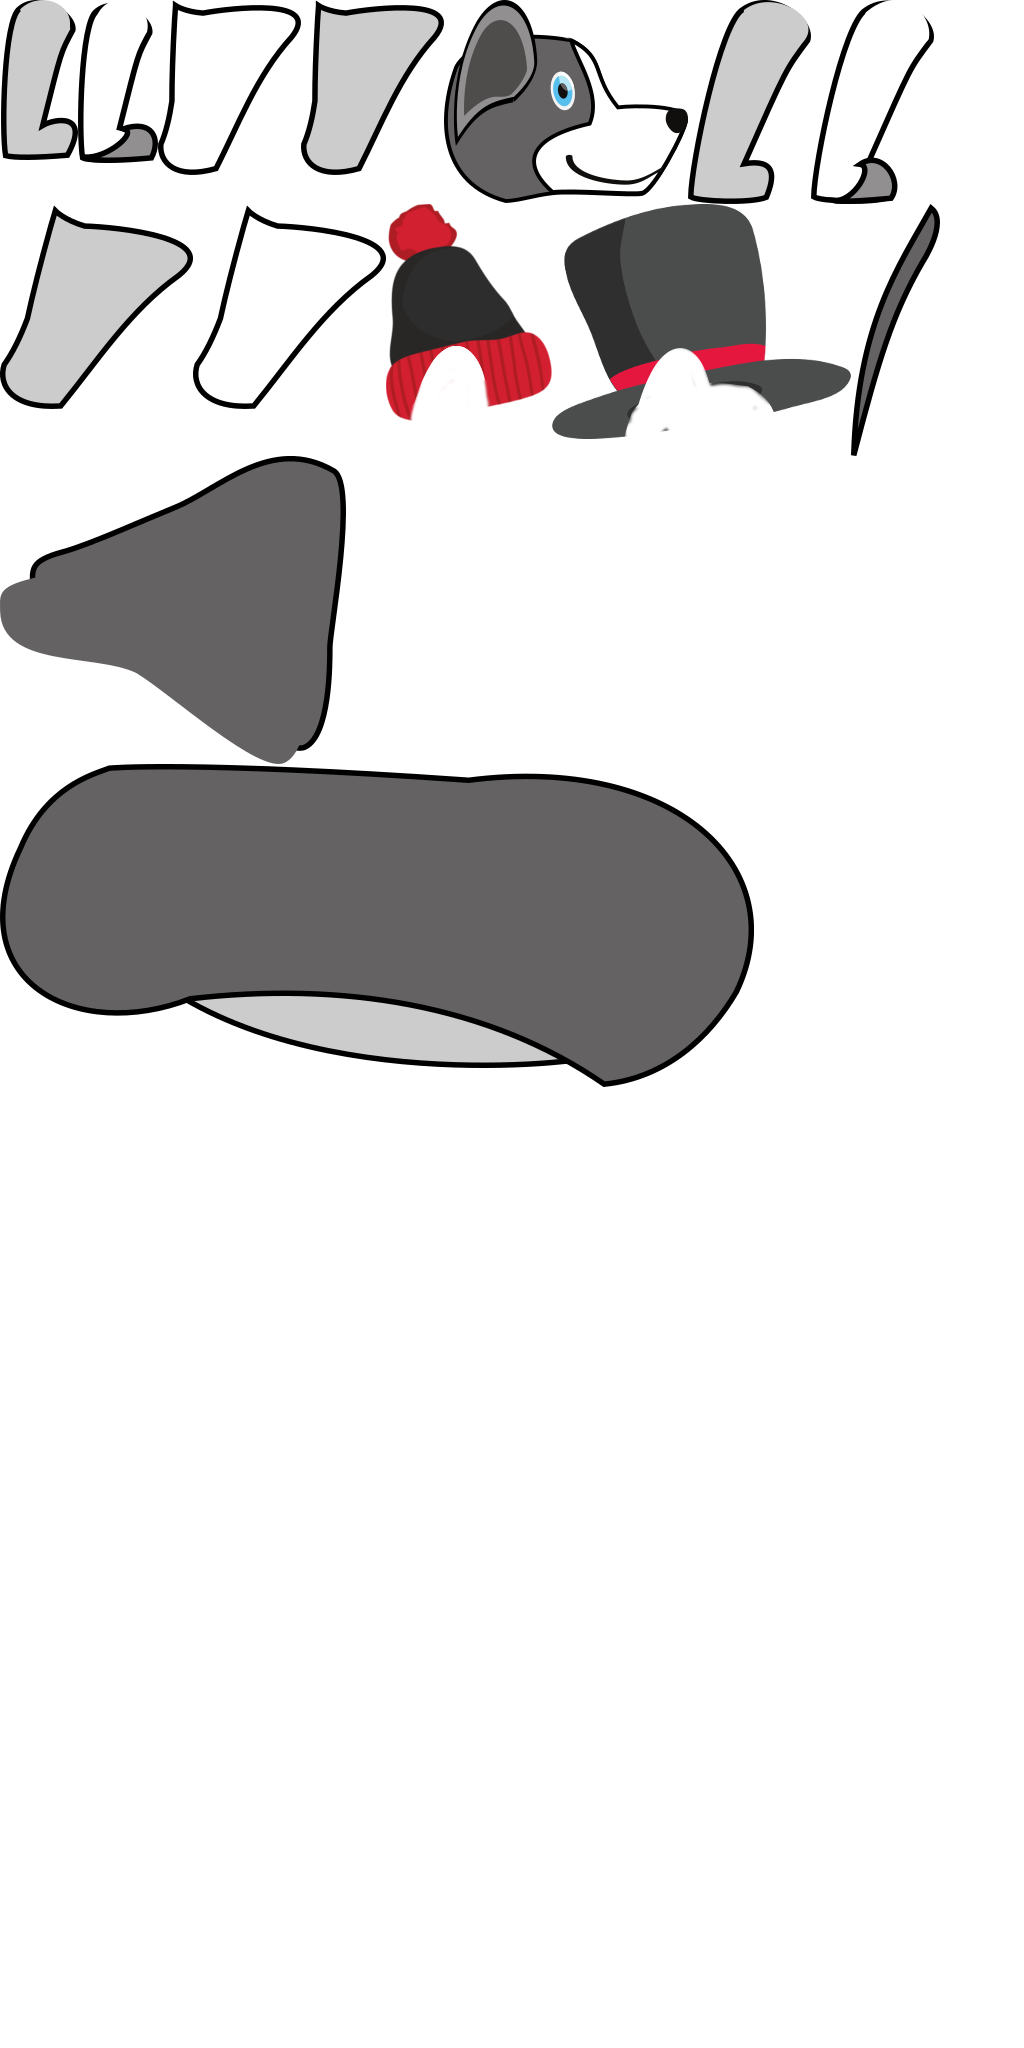
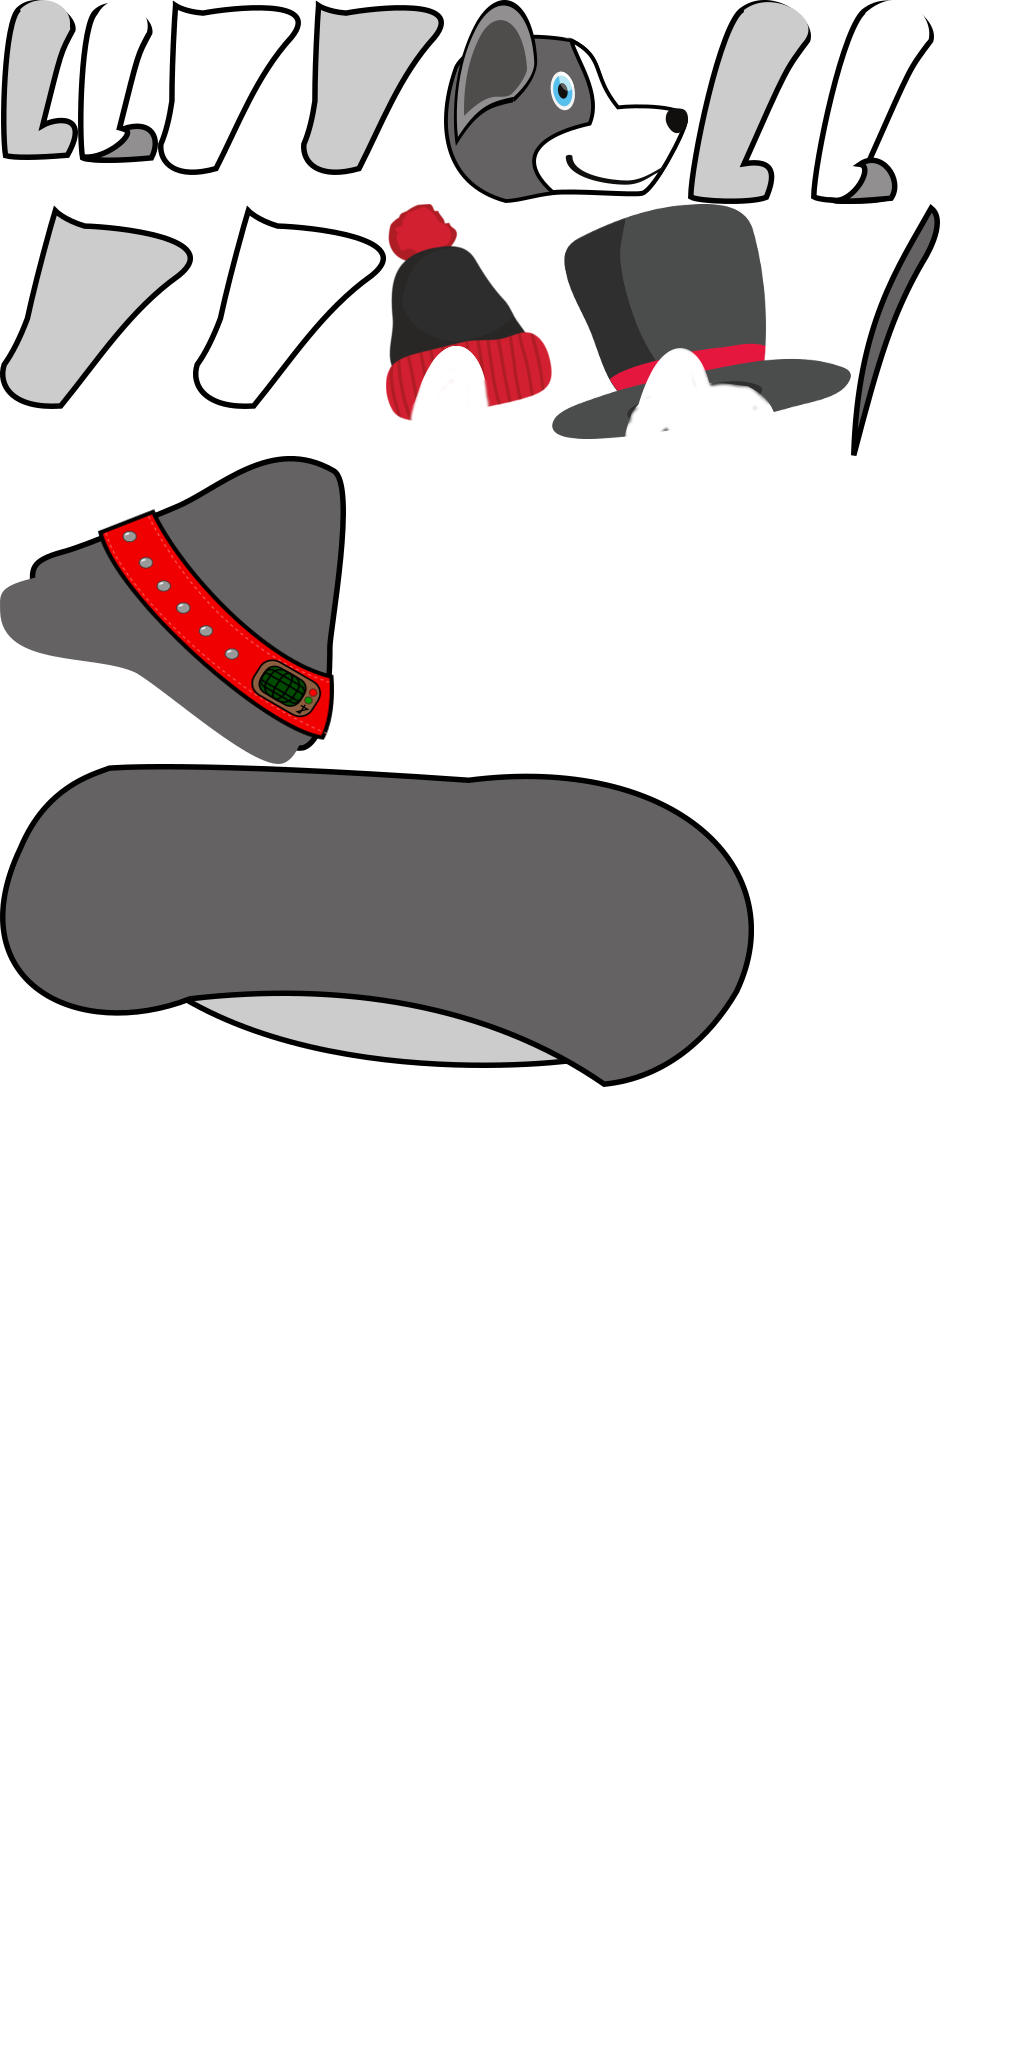
Started tidying up for version 0.2
Lowered fall noise. Modified energy numbers. Reseted story beginning.

Started adding support for showing who is speaking.

Changed region(s): [[0.0938, 0.25, 0.3438, 0.375]]

diff --git a/js/gui/guiElement.js b/js/gui/guiElement.js
@@ -121,8 +121,15 @@ class DialogGuiElement extends GuiElement
         {
             this.options = [{text:"continue"}];
         }
+        var thumbnailPanel;
         _slickUI.add(this.panel = new SlickUI.Element.Panel(50, 150, 700, 150));
-        this.panel.add(this.text = new SlickUI.Element.Text(0,10, ""));
+        this.panel.add(thumbnailPanel = new SlickUI.Element.Panel(10, 10, 120, 120));
+        this.panel.add(this.text = new SlickUI.Element.Text(150,10, ""));
+        
+        if (true || this.options.characterFace != undefined)
+        {
+            thumbnailPanel.add(new SlickUI.Element.DisplayObject(5, 5, game.make.sprite(0, 0, 'collarThumbnail')));
+        }
         
         super.create(_slickUI, _game, this.panel);
         ServiceLocator.inputManager.leftButton.onDown.add(this.finishWritingText, this);

diff --git a/js/player.js b/js/player.js
@@ -7,8 +7,8 @@ class DogPlayer extends GameObject
         this.character;
         this.maxHealth = 40;
         this.health = this.maxHealth;
-        this.maxEnergy = 40;
-        this.energy = 30;
+        this.maxEnergy = 20;
+        this.energy = 0;
         this.healthBar = new HealthBar();
         this.energyBar = new EnergyBar();
         this.jumpAcceleration = new Phaser.Point(0, 0);
@@ -91,6 +91,7 @@ class DogPlayer extends GameObject
         this.attackAudio = this.game.add.audio('playerAttackAudio');
         this.jumpAudio = this.game.add.audio('playerJumpAudio');
         this.landAudio = this.game.add.audio('playerLandAudio');
+        this.landAudio.volume = 0.25;
         this.stepAudio = this.game.add.audio('playerStepAudio');
         this.stepAudio.volume = 0.25;
     }

diff --git a/js/cards.js b/js/cards.js
@@ -201,7 +201,7 @@ class SmEnergyCard extends Card
     
     apply(_arguments)
     {
-        _arguments.player.addEnergy(2);
+        _arguments.player.addEnergy(5);
     }
     
     getEnergyIncrease()
@@ -220,7 +220,7 @@ class MedEnergyCard extends Card
     
     apply(_arguments)
     {
-        _arguments.player.addEnergy(5);
+        _arguments.player.addEnergy(10);
     }
     
     getEnergyIncrease()
@@ -239,7 +239,7 @@ class BigEnergyCard extends Card
     
     apply(_arguments)
     {
-        _arguments.player.addEnergy(10);
+        _arguments.player.addEnergy(15);
     }
     
     getEnergyIncrease()

diff --git a/js/cardPieceUI.js b/js/cardPieceUI.js
@@ -31,9 +31,13 @@ class CardPieceUI
     
     setNumberOfPieces(_number)
     {
-        if (this.baseSprite === undefined || _number < this.currentPieceNumber)
+        if (_number < this.currentPieceNumber)
         {
             this.cardGroup.removeAll(true);
+        }
+        
+        if (this.baseSprite === undefined && _number > 0)
+        {
             this.baseSprite = this.cardGroup.create(0, 0, "piecesUI0");
         }
         

diff --git a/js/gameConfiguration/storyConfiguration.js b/js/gameConfiguration/storyConfiguration.js
@@ -16,7 +16,7 @@ class StoryConfiguration
         ServiceLocator.difficultyManager.setInitialValues(0, 0, 0, DifficultyManager.ObstacleLevelsName.STORY_BEGIN);
         ServiceLocator.cardManager.setDeckNumbers({SmMedkitCard:1});
         this.mainState = _mainState;
-        this.setStoryStep(new WaitForEnergyComplete());
+        this.setStoryStep(new DogEnteringStoryStep());
     }
     
     setStoryStep(_step)

diff --git a/js/gameModes/dialogManager.js b/js/gameModes/dialogManager.js
@@ -12,6 +12,12 @@ class DialogManager extends GameMode
         this.callback;
         this.callbackCtx;
     }
+    
+    static preload(_game)
+    {
+        _game.load.image('collarThumbnail', './img/dialog_thumbnails/collar.png');
+        _game.load.image('dogThumbnail', './img/dialog_thumbnails/dog.png');
+    }
 
     update()
     {

diff --git a/js/states/mainState.js b/js/states/mainState.js
@@ -13,6 +13,7 @@ MainState.prototype.preload = function ()
     
     CombatLootMode.preload(this.game);
     GearCardCompletedMode.preload(this.game);
+    DialogManager.preload(this.game);
 }
 
 MainState.prototype.create = function ()
